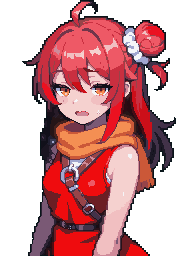
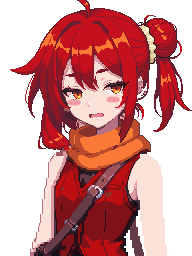
Jieyan's side-bun look redone from her everyday portrait
Only her hair is repainted on portrait.png: a loose side bun with a cream
scrunchie, the ahoge and a long lock over the shoulder, in her own crimson.
Face, scarf, vest and pose are portrait.png's; the three faces reuse her
smug, shy and teary face parts.

diff --git a/game/art/NOTES.md b/game/art/NOTES.md
@@ -42,6 +42,8 @@
 
 - **婕焰的兩個姿勢**：這次不是從文字重新生成，是拿 `portrait.png` 當起始圖（img2img，強度 0.86）加上同一張當畫風參考（IPAdapter 0.7），再放大兩倍重繪、縮回 192 × 256。生出來的顏色還是會飄（頭髮和背心偏亮、髮束綁帶偏藍），所以每一格都換成 `portrait.png` 色盤裡最近的顏色，頭髮和背心的紅再照 `portrait.png` 紅色的明暗分布對齊。`laugh` 後面那隻手臂整隻是陰影色，改成亮膚色加兩格陰影；兩張下巴左下透出背景的洞用後面頭髮的暗紅補起來。
 
+- **婕焰 `bun` 造型**：拿 `portrait.png` 當底，只對頭髮那一塊（雙馬尾、頭頂上方的空間、右肩給垂下長髮的位置）局部重繪，臉、瀏海、左邊的衣服都不動，所以除了髮型都和一般那張一樣。白色髮圈改成三階的奶油色；去背留下的淡色邊拿掉，頭髮外緣改成和一般那張一樣的深紅輪廓；右肩用 `portrait.png` 的像素補回。三張表情直接用她 `smug`、`shy`、`teary` 的臉部那幾塊，所以和一般臉的表情完全一致。
+
 ## 上一輪的總結
 
 清單第 0 到 6 項全部做完，每項都已提交並推到分支，`manifest.js` 都已登記。沒有跳過任何一項。
